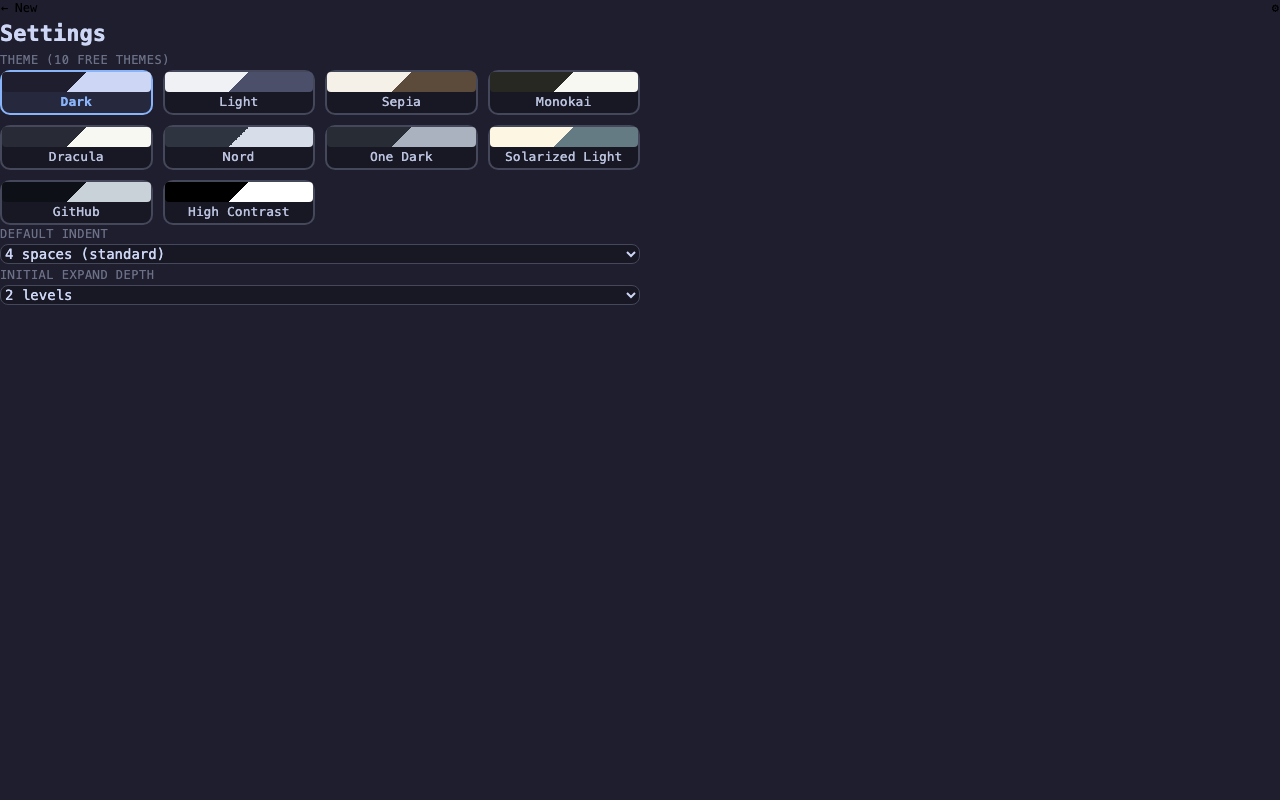
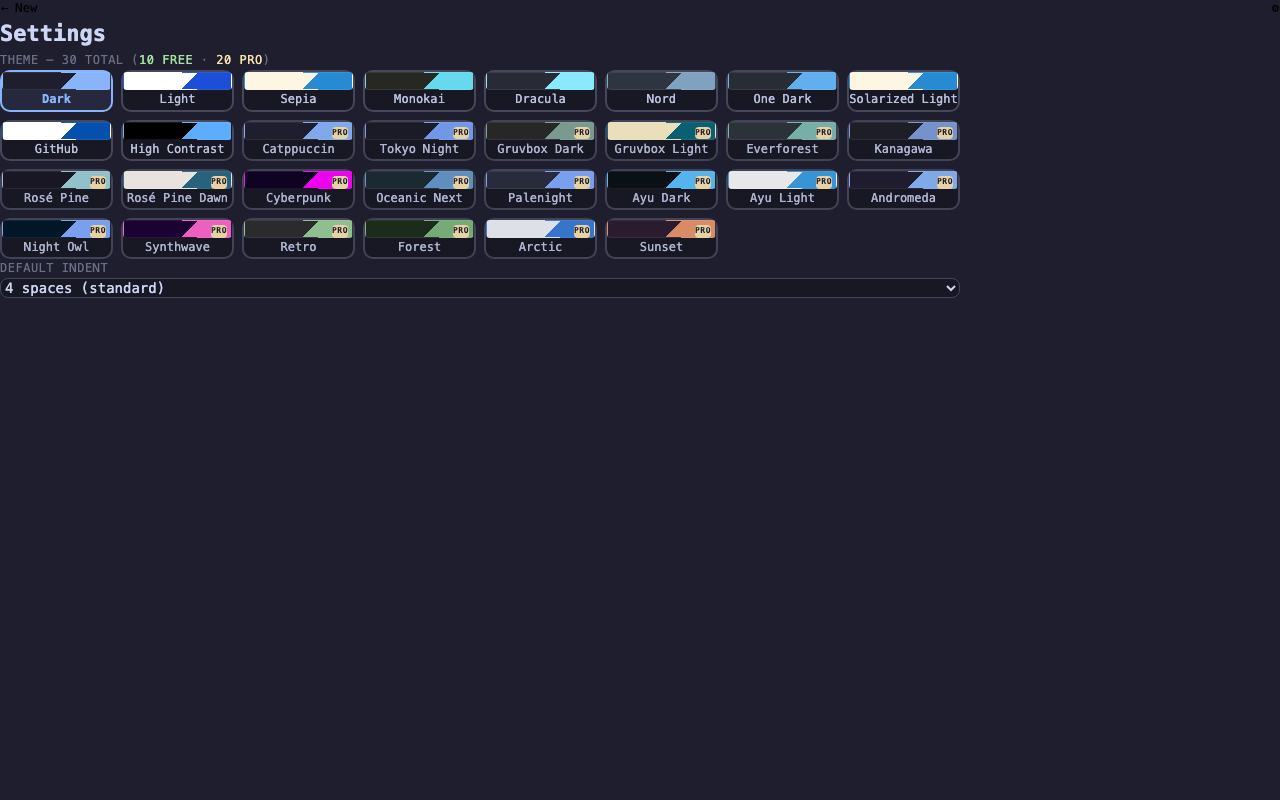
Regenerate v1.1.0 store screenshots: 30-theme grid + Pro
- capture-screenshots.js: settings screenshot now renders all 30 themes
  (10 free + 20 Pro, Pro chips badged) with real colors from themes.js,
  relabeled "Theme — 30 total (10 Free · 20 Pro)"; widened grid to fit
  30 chips within 1280x800 (measured content bottom 558px, no cutoff)
- drop stale "open source" claim and bump version/theme-count in the
  sample JSON shown in screenshots 01/02/04
- guard the generation loop behind require.main and export the builders
  so the page can be measured/tested without side effects
- store-listing.md: update screenshot #5 caption

Verified headless: 30 chips, 20 PRO badges, no vertical cutoff.

Changed region(s): [[0.0, 0.0625, 0.75, 0.375], [0.7188, 0.3438, 0.75, 0.375]]

diff --git a/test-data/capture-screenshots.js b/test-data/capture-screenshots.js
@@ -48,8 +48,8 @@ function computeStats(data) {
 // ---- Sample data ----
 const sampleDataObj = {
   name: "ClearJSON",
-  version: "1.0.0",
-  description: "A JSON viewer you can trust — open source, local-first, zero tracking",
+  version: "1.1.0",
+  description: "A JSON viewer you can trust — local-first, zero tracking",
   repository: {
     type: "git",
     url: "https://github.com/wayknow/clearjson",
@@ -75,7 +75,7 @@ const sampleDataObj = {
     "Auto-detect & format JSON pages",
     "Collapsible tree view with indent guides",
     "Syntax highlighting (keys, strings, numbers, booleans, null)",
-    "10 beautiful themes (dark, light, sepia, monokai, dracula…)",
+    "10 beautiful themes (dark, light, sepia, monokai, dracula…) — 30 with Pro",
     "Click-to-copy values, right-click for JSONPath",
     "Auto-detected links and image previews",
     "Search with result navigation",
@@ -84,7 +84,7 @@ const sampleDataObj = {
     "Stats bar (nodes, depth, size, parse time)"
   ],
   config: { theme: "dark", indentSize: 2, initialExpandDepth: 2, showLineNumbers: true, showStatsBar: true },
-  tags: ["json", "viewer", "formatter", "privacy", "open-source", "chrome-extension"]
+  tags: ["json", "viewer", "formatter", "privacy", "chrome-extension"]
 };
 
 // Large array data for an impressive structure screenshot
@@ -223,25 +223,50 @@ function buildScreenshotPage(dataJson, theme, initialState) {
 }
 
 // ---- Settings page (hardcoded for visual quality) ----
-// Uses actual 10 free theme keys and their real CSS variable bg/text colors
-const FREE_THEMES_INFO = [
-  { key: 'dark',              label: 'Dark',             bg: '#1e1e2e', text: '#cdd6f4' },
-  { key: 'light',             label: 'Light',            bg: '#eff1f5', text: '#4c4f69' },
-  { key: 'sepia',             label: 'Sepia',            bg: '#f5f0e8', text: '#5c4b3b' },
-  { key: 'monokai',           label: 'Monokai',          bg: '#272822', text: '#f8f8f2' },
-  { key: 'dracula',           label: 'Dracula',          bg: '#282a36', text: '#f8f8f2' },
-  { key: 'nord',              label: 'Nord',             bg: '#2e3440', text: '#d8dee9' },
-  { key: 'onedark',           label: 'One Dark',         bg: '#282c34', text: '#abb2bf' },
-  { key: 'solarized-light',   label: 'Solarized Light',  bg: '#fdf6e3', text: '#657b83' },
-  { key: 'github',            label: 'GitHub',           bg: '#0d1117', text: '#c9d1d9' },
-  { key: 'high-contrast',     label: 'High Contrast',    bg: '#000000', text: '#ffffff' }
+// All 30 themes with real CSS-variable bg + accent (key) colors from themes.js.
+// 10 free + 20 Pro (Pro chips get a badge), matching the live renderThemeGrid().
+const ALL_THEMES_INFO = [
+  // Free (10)
+  { key: 'dark',            label: 'Dark',            bg: '#1e1e2e', accent: '#89b4fa', pro: false },
+  { key: 'light',           label: 'Light',           bg: '#ffffff', accent: '#1d4ed8', pro: false },
+  { key: 'sepia',           label: 'Sepia',           bg: '#fdf6e3', accent: '#268bd2', pro: false },
+  { key: 'monokai',         label: 'Monokai',         bg: '#272822', accent: '#66d9ef', pro: false },
+  { key: 'dracula',         label: 'Dracula',         bg: '#282a36', accent: '#8be9fd', pro: false },
+  { key: 'nord',            label: 'Nord',            bg: '#2e3440', accent: '#81a1c1', pro: false },
+  { key: 'onedark',         label: 'One Dark',        bg: '#282c34', accent: '#61afef', pro: false },
+  { key: 'solarized-light', label: 'Solarized Light', bg: '#fdf6e3', accent: '#268bd2', pro: false },
+  { key: 'github',          label: 'GitHub',          bg: '#ffffff', accent: '#0550ae', pro: false },
+  { key: 'high-contrast',   label: 'High Contrast',   bg: '#000000', accent: '#5cadff', pro: false },
+  // Pro (20)
+  { key: 'catppuccin',      label: 'Catppuccin',      bg: '#1e1e2e', accent: '#89b4fa', pro: true },
+  { key: 'tokyo-night',     label: 'Tokyo Night',     bg: '#1a1b26', accent: '#7aa2f7', pro: true },
+  { key: 'gruvbox-dark',    label: 'Gruvbox Dark',    bg: '#282828', accent: '#83a598', pro: true },
+  { key: 'gruvbox-light',   label: 'Gruvbox Light',   bg: '#fbf1c7', accent: '#076678', pro: true },
+  { key: 'everforest',      label: 'Everforest',      bg: '#2d353b', accent: '#7fbbb3', pro: true },
+  { key: 'kanagawa',        label: 'Kanagawa',        bg: '#1f1f28', accent: '#7e9cd8', pro: true },
+  { key: 'rose-pine',       label: 'Rosé Pine',       bg: '#191724', accent: '#9ccfd8', pro: true },
+  { key: 'rose-pine-dawn',  label: 'Rosé Pine Dawn',  bg: '#faf4ed', accent: '#286983', pro: true },
+  { key: 'cyberpunk',       label: 'Cyberpunk',       bg: '#0d0221', accent: '#ff00ff', pro: true },
+  { key: 'oceanic-next',    label: 'Oceanic Next',    bg: '#1b2b34', accent: '#6699cc', pro: true },
+  { key: 'palenight',       label: 'Palenight',       bg: '#292d3e', accent: '#82aaff', pro: true },
+  { key: 'ayu-dark',        label: 'Ayu Dark',        bg: '#0a0e14', accent: '#59c2ff', pro: true },
+  { key: 'ayu-light',       label: 'Ayu Light',       bg: '#fafafa', accent: '#399ee6', pro: true },
+  { key: 'andromeda',       label: 'Andromeda',       bg: '#1f1c2e', accent: '#8ab4f8', pro: true },
+  { key: 'night-owl',       label: 'Night Owl',       bg: '#011627', accent: '#82aaff', pro: true },
+  { key: 'synthwave',       label: 'Synthwave',       bg: '#1a0033', accent: '#ff66cc', pro: true },
+  { key: 'retro',           label: 'Retro',           bg: '#2d2d2d', accent: '#99cc99', pro: true },
+  { key: 'forest',          label: 'Forest',          bg: '#1b2d1b', accent: '#7eb87e', pro: true },
+  { key: 'arctic',          label: 'Arctic',          bg: '#eef2f7', accent: '#3b7dd8', pro: true },
+  { key: 'sunset',          label: 'Sunset',          bg: '#2d1b2e', accent: '#e8956c', pro: true }
 ];
 
 function buildSettingsPage(theme) {
-  const themeChips = FREE_THEMES_INFO.map((t, i) => {
+  const themeChips = ALL_THEMES_INFO.map((t) => {
     const active = t.key === theme ? ' active' : '';
-    return `        <div class="cj-theme-chip${active}">
-          <div class="theme-swatch" style="background: linear-gradient(135deg, ${t.bg} 50%, ${t.text} 50%);"></div>
+    const badge = t.pro ? '<span class="cj-pro-badge">PRO</span>' : '';
+    return `        <div class="cj-theme-chip${active}${t.pro ? ' pro' : ''}">
+          ${badge}
+          <div class="theme-swatch" style="background: linear-gradient(135deg, ${t.bg} 60%, ${t.accent} 60%);"></div>
           ${t.label}
         </div>`;
   }).join('\n');
@@ -255,21 +280,24 @@ function buildSettingsPage(theme) {
 <link rel="stylesheet" href="file://${PROJECT}/src/content/content.css">
 <style>
   body { margin: 0; padding: 0; background: #1e1e2e; }
-  .cj-settings-page { max-width: 640px; margin: 40px auto; padding: 32px; }
-  .cj-settings-page h2 { font-size: 22px; margin-bottom: 24px; color: #cdd6f4; }
-  .cj-settings-group { margin-bottom: 24px; }
+  .cj-settings-page { max-width: 960px; margin: 28px auto; padding: 28px 32px; }
+  .cj-settings-page h2 { font-size: 22px; margin-bottom: 20px; color: #cdd6f4; }
+  .cj-settings-group { margin-bottom: 20px; }
   .cj-settings-group label { display: block; font-size: 12px; text-transform: uppercase; letter-spacing: 0.5px; color: #6c7086; margin-bottom: 8px; }
+  .cj-settings-group label .free-count { color: #a6e3a1; }
+  .cj-settings-group label .pro-count { color: #f9e2af; }
   .cj-settings-group select {
     width: 100%; padding: 10px 14px; font-family: inherit; font-size: 14px;
     color: #cdd6f4; background: #181825; border: 1px solid #45475a; border-radius: 8px;
   }
   .cj-theme-grid {
     display: grid;
-    grid-template-columns: repeat(auto-fill, minmax(130px, 1fr));
-    gap: 10px;
+    grid-template-columns: repeat(auto-fill, minmax(112px, 1fr));
+    gap: 8px;
   }
   .cj-theme-chip {
-    padding: 10px 14px; font-family: inherit; font-size: 13px; text-align: center;
+    position: relative;
+    padding: 8px 10px 9px; font-family: inherit; font-size: 12px; text-align: center;
     color: #bac2de; background: #181825;
     border: 2px solid #45475a; border-radius: 10px;
   }
@@ -277,8 +305,16 @@ function buildSettingsPage(theme) {
     border-color: #89b4fa; color: #89b4fa; font-weight: 600;
     background: rgba(137, 180, 250, 0.08);
   }
+  .cj-theme-chip.pro { opacity: 0.92; }
+  .cj-theme-chip .cj-pro-badge {
+    position: absolute; top: 5px; right: 5px;
+    font-size: 8px; font-weight: 700; letter-spacing: 0.5px;
+    color: #1e1e2e; background: #f9e2af;
+    padding: 1px 4px; border-radius: 4px;
+  }
   .theme-swatch {
-    width: 100%; height: 20px; border-radius: 4px; margin-bottom: 6px;
+    width: 100%; height: 18px; border-radius: 4px; margin-bottom: 6px;
+    border: 1px solid rgba(255,255,255,0.08);
   }
 </style>
 </head>
@@ -296,7 +332,7 @@ function buildSettingsPage(theme) {
   <div class="cj-settings-page">
     <h2>Settings</h2>
     <div class="cj-settings-group">
-      <label>Theme (10 Free Themes)</label>
+      <label>Theme — 30 total (<span class="free-count">10 Free</span> · <span class="pro-count">20 Pro</span>)</label>
       <div class="cj-theme-grid">
 ${themeChips}
       </div>
@@ -307,15 +343,6 @@ ${themeChips}
         <option>2 spaces (compact)</option>
         <option selected>4 spaces (standard)</option>
         <option>8 spaces (wide)</option>
-      </select>
-    </div>
-    <div class="cj-settings-group">
-      <label>Initial Expand Depth</label>
-      <select>
-        <option>1 level</option>
-        <option selected>2 levels</option>
-        <option>3 levels</option>
-        <option>All</option>
       </select>
     </div>
   </div>
@@ -356,41 +383,49 @@ const screenshots = [
   },
   {
     name: '05-theme-grid',
-    desc: 'Settings panel showing 10 free themes in a grid',
+    desc: 'Settings panel showing all 30 themes (10 free + 20 Pro) in a grid',
     data: sampleData,
     theme: 'dark',
     state: 'settings'
   }
 ];
 
-console.log('Generating screenshots…\n');
+function generateAll() {
+  console.log('Generating screenshots…\n');
 
-for (const shot of screenshots) {
-  const htmlPath = path.join(SCREENSHOTS, `_${shot.name}.html`);
-  const pngPath = path.join(SCREENSHOTS, `${shot.name}.png`);
+  for (const shot of screenshots) {
+    const htmlPath = path.join(SCREENSHOTS, `_${shot.name}.html`);
+    const pngPath = path.join(SCREENSHOTS, `${shot.name}.png`);
 
-  let html;
-  if (shot.state === 'settings') {
-    html = buildSettingsPage(shot.theme);
-  } else {
-    html = buildScreenshotPage(shot.data, shot.theme, shot.state);
+    let html;
+    if (shot.state === 'settings') {
+      html = buildSettingsPage(shot.theme);
+    } else {
+      html = buildScreenshotPage(shot.data, shot.theme, shot.state);
+    }
+
+    fs.writeFileSync(htmlPath, html);
+
+    try {
+      execSync(
+        `"${CHROME}" --headless --disable-gpu --screenshot="${pngPath}" --window-size=${WIDTH},${HEIGHT} "file://${htmlPath}"`,
+        { stdio: 'pipe', timeout: 15000 }
+      );
+      const size = fs.statSync(pngPath).size;
+      console.log(`  ✓ ${shot.name}.png (${(size / 1024).toFixed(0)} KB) — ${shot.desc}`);
+    } catch (err) {
+      console.error(`  ✗ ${shot.name}.png FAILED:`, err.message);
+    }
+
+    // Clean up temp HTML
+    fs.unlinkSync(htmlPath);
   }
 
-  fs.writeFileSync(htmlPath, html);
-
-  try {
-    execSync(
-      `"${CHROME}" --headless --disable-gpu --screenshot="${pngPath}" --window-size=${WIDTH},${HEIGHT} "file://${htmlPath}"`,
-      { stdio: 'pipe', timeout: 15000 }
-    );
-    const size = fs.statSync(pngPath).size;
-    console.log(`  ✓ ${shot.name}.png (${(size / 1024).toFixed(0)} KB) — ${shot.desc}`);
-  } catch (err) {
-    console.error(`  ✗ ${shot.name}.png FAILED:`, err.message);
-  }
-
-  // Clean up temp HTML
-  fs.unlinkSync(htmlPath);
+  console.log('\nDone! Screenshots saved to screenshots/');
 }
 
-console.log('\nDone! Screenshots saved to screenshots/');
+if (require.main === module) {
+  generateAll();
+}
+
+module.exports = { buildScreenshotPage, buildSettingsPage, ALL_THEMES_INFO };

diff --git a/docs/store-listing.md b/docs/store-listing.md
@@ -83,7 +83,7 @@ All 5 screenshots are in `screenshots/` directory. Generated via `test-data/capt
 | 2 | `02-light-search.png` | Light theme with search — matching keys & values highlighted |
 | 3 | `03-array-data.png` | Large array of objects showing expanded tree structure |
 | 4 | `04-raw-view.png` | Raw JSON view with syntax highlighting and line numbers |
-| 5 | `05-theme-grid.png` | Settings panel with 10 free themes displayed in a grid |
+| 5 | `05-theme-grid.png` | Settings panel showing all 30 themes (10 free + 20 Pro) in a grid |
 
 ### How to re-generate screenshots
 
